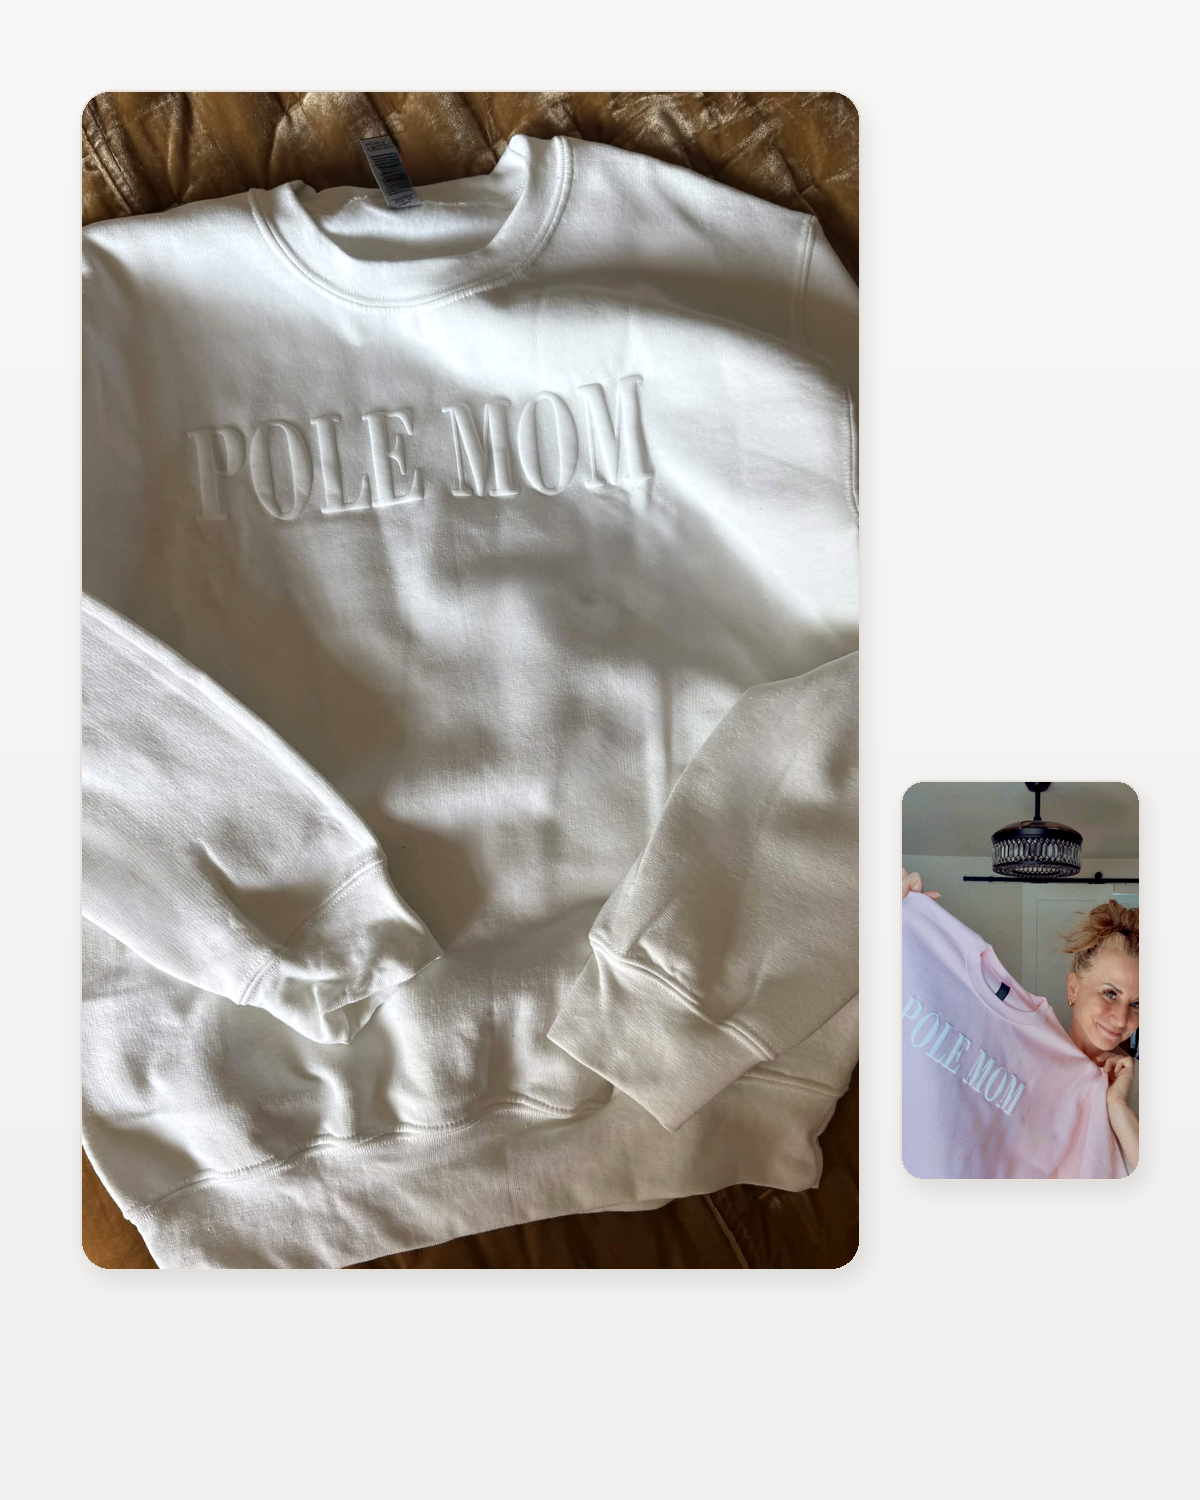
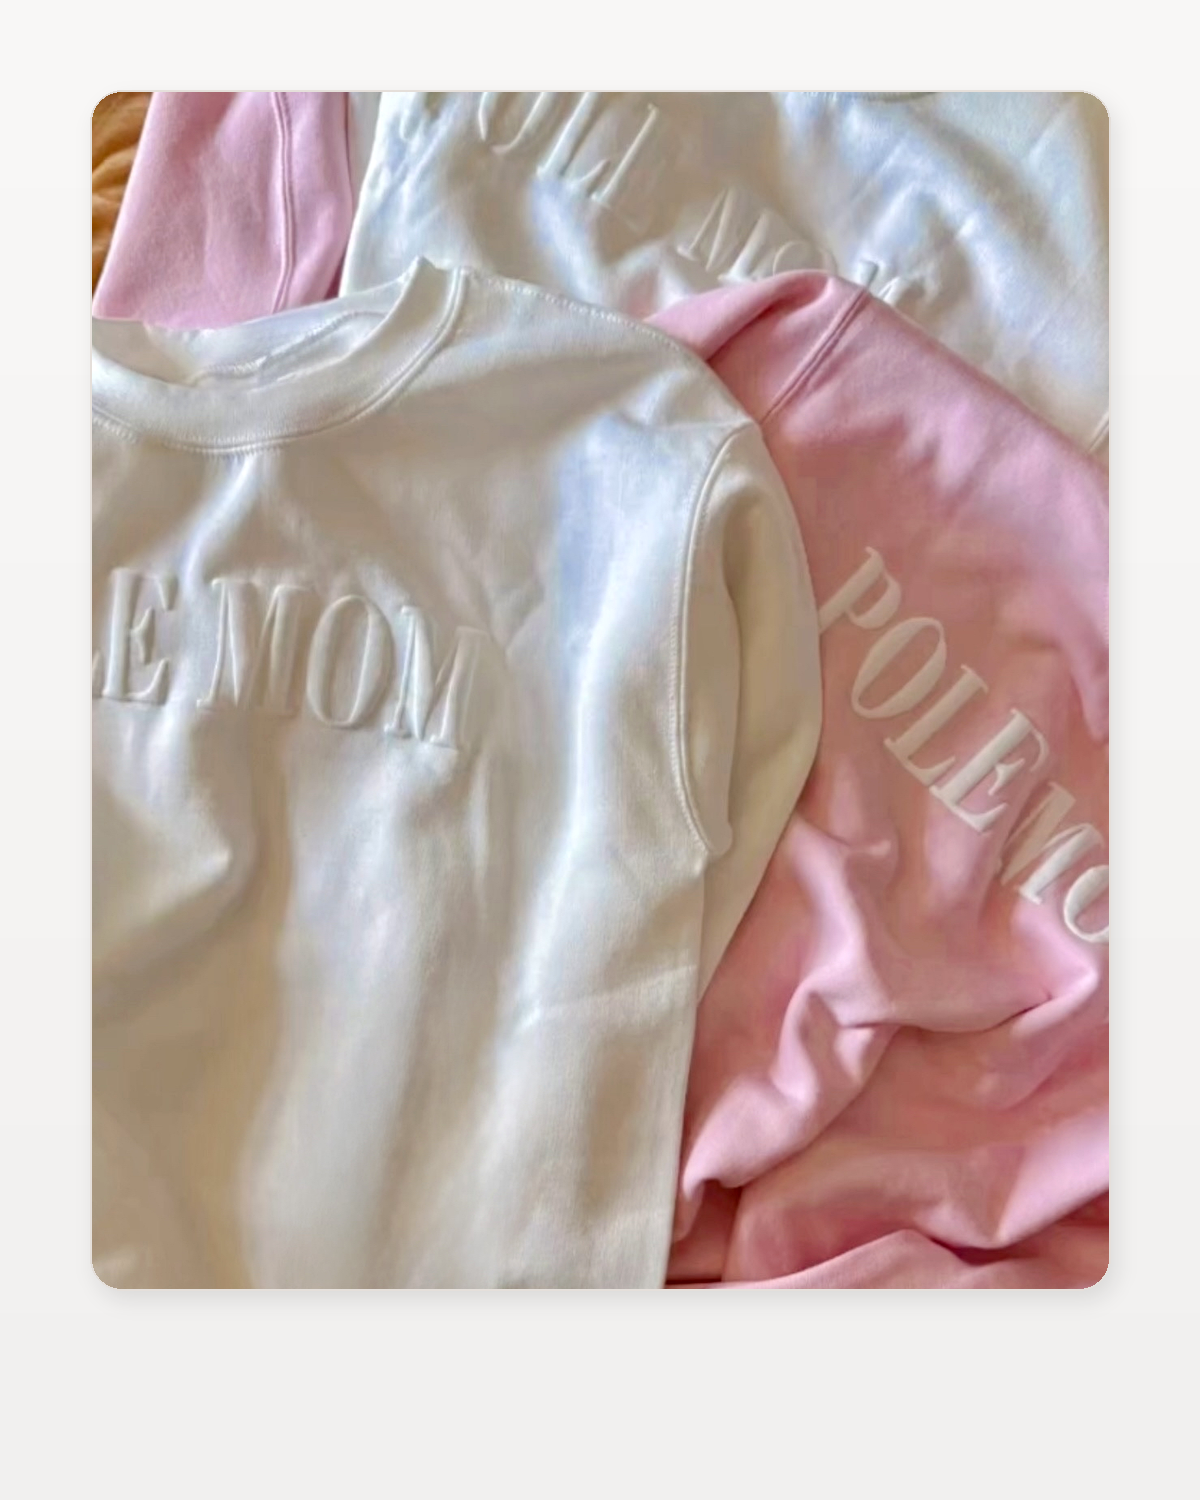
Refine preview Pole Mom tile and customer love copy

diff --git a/oncloudnine-preview/index.html b/oncloudnine-preview/index.html
@@ -67,7 +67,9 @@
 
       <div class="customer-love">
         <h3>Customer Love</h3>
+        <p>Real customer photos show how the collection looks in everyday life.</p>
         <img src="../customer-love-board.png" alt="Customer love preview" />
+        <div style="max-width:720px; margin:1rem auto 0; text-align:center; color:#5c7785;">Send your photo, review, and Instagram handle through the website form to be featured.</div>
       </div>
 
       <div class="size-chart">

diff --git a/oncloudnine-preview.html b/oncloudnine-preview.html
@@ -67,7 +67,9 @@
 
       <div class="customer-love">
         <h3>Customer Love</h3>
+        <p>Real customer photos show how the collection looks in everyday life.</p>
         <img src="customer-love-board.png" alt="Customer love preview" />
+        <div style="max-width:720px; margin:1rem auto 0; text-align:center; color:#5c7785;">Send your photo, review, and Instagram handle through the website form to be featured.</div>
       </div>
 
       <div class="size-chart">
